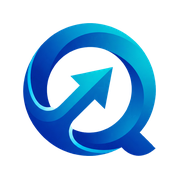
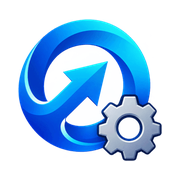
feat(#4671): знак QEVO с шестерёнкой — фавикон, иконки и логотип CRM на app.qevo.one
Исходник 250×250 из чата (сообщение 6522). Адреса с ?v=2 — браузеры не покажут старый значок из кэша. Иконки Android (APK) не трогали.

diff --git a/frontend/index.html b/frontend/index.html
@@ -12,9 +12,9 @@
          svg-версии у него нет. Собирается scripts/brand-assets.py из исходника.
          Два размера: 32 для вкладки, 64 для закладок и панели задач.
          apple-touch-icon отдельно: iOS не берёт ни манифест, ни мелкие иконки. -->
-    <link rel="icon" href="/favicon-32.png" sizes="32x32" type="image/png" />
-    <link rel="icon" href="/favicon-64.png" sizes="64x64" type="image/png" />
-    <link rel="apple-touch-icon" href="/apple-touch-icon.png" />
+    <link rel="icon" href="/favicon-32.png?v=2" sizes="32x32" type="image/png" />
+    <link rel="icon" href="/favicon-64.png?v=2" sizes="64x64" type="image/png" />
+    <link rel="apple-touch-icon" href="/apple-touch-icon.png?v=2" />
     <link rel="manifest" href="/manifest.json" />
     <!-- Цвет строки браузера на телефоне — фон страницы своей темы: светлый бежевый или
          тёмно-синий. Прежний почти чёрный был под неоновый знак старого бренда. -->

diff --git a/frontend/src/components/Logo.tsx b/frontend/src/components/Logo.tsx
@@ -13,7 +13,7 @@ export function Logo({ size = 32, withWord = false }: { size?: number; withWord?
   const mark = (
     <img
       className="logo-mark"
-      src="/logo-mark.png"
+      src="/logo-mark.png?v=2"
       width={size}
       height={size}
       alt=""

diff --git a/frontend/scripts/brand-web-mark.py b/frontend/scripts/brand-web-mark.py
@@ -1,0 +1,51 @@
+"""
+Фавиконы и знак CRM из картинки-ЗНАКА без надписи (#4671, 26.10.2026: знак QEVO с
+шестерёнкой — «на поддомене» app.qevo.one). brand-assets.py рассчитан на исходник
+«знак + надпись» и пересобирает ещё и иконки Android — здесь только веб.
+
+Запуск: python frontend/scripts/brand-web-mark.py <путь к знаку.png>
+
+public/: logo-mark.png (512, прозрачный) · favicon-32/64.png · apple-touch-icon.png
+(180, белая подложка — iOS заливает прозрачность чёрным) · icon-192/512.png (PWA, белая
+подложка). Знак обрезается по непрозрачным пикселям; поля — как в brand-assets.py.
+Новые файлы на старых адресах: в index.html и Logo.tsx стоит ?v=N — поднимите его,
+иначе браузеры покажут старый значок из кэша.
+"""
+import os, sys
+from PIL import Image
+
+SRC = sys.argv[1]
+PUB = os.path.join(os.path.dirname(__file__), '..', 'public')
+
+src = Image.open(SRC).convert('RGBA')
+MARK = src.crop(src.split()[3].point(lambda v: 255 if v > 20 else 0).getbbox())
+
+
+def fit(img, size, scale, bg=None):
+    canvas = Image.new('RGBA', (size, size), bg or (0, 0, 0, 0))
+    side = int(size * scale)
+    k = side / max(img.size)
+    piece = img.resize((max(1, round(img.width * k)), max(1, round(img.height * k))), Image.LANCZOS)
+    canvas.alpha_composite(piece, ((size - piece.width) // 2, (size - piece.height) // 2))
+    return canvas
+
+
+def save(img, name, rgb_bg=None):
+    path = os.path.join(PUB, name)
+    if rgb_bg is not None:
+        flat = Image.new('RGB', img.size, rgb_bg)
+        flat.paste(img, mask=img.split()[3])
+        flat.save(path, optimize=True)
+    else:
+        img.save(path, optimize=True)
+    print('ok', name, img.size)
+
+
+WHITE = (255, 255, 255)
+save(fit(MARK, 512, 0.92), 'logo-mark.png')
+# на вкладке знак крупнее: мелкий ряд пикселей съедает поля
+save(fit(MARK, 32, 1.0), 'favicon-32.png')
+save(fit(MARK, 64, 0.98), 'favicon-64.png')
+save(fit(MARK, 180, 0.8), 'apple-touch-icon.png', WHITE)
+save(fit(MARK, 192, 0.8), 'icon-192.png', WHITE)
+save(fit(MARK, 512, 0.8), 'icon-512.png', WHITE)
